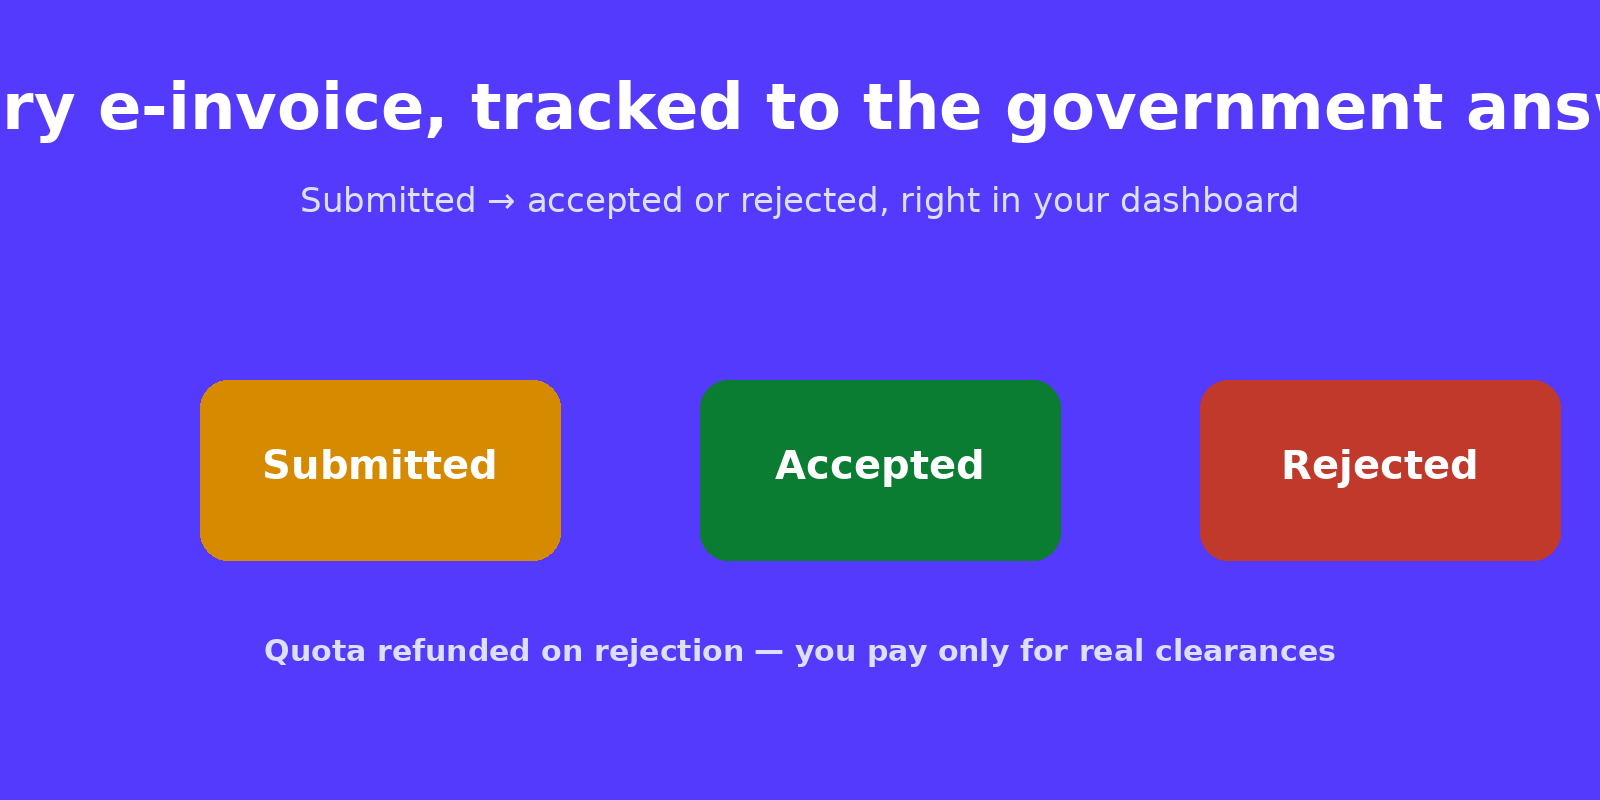
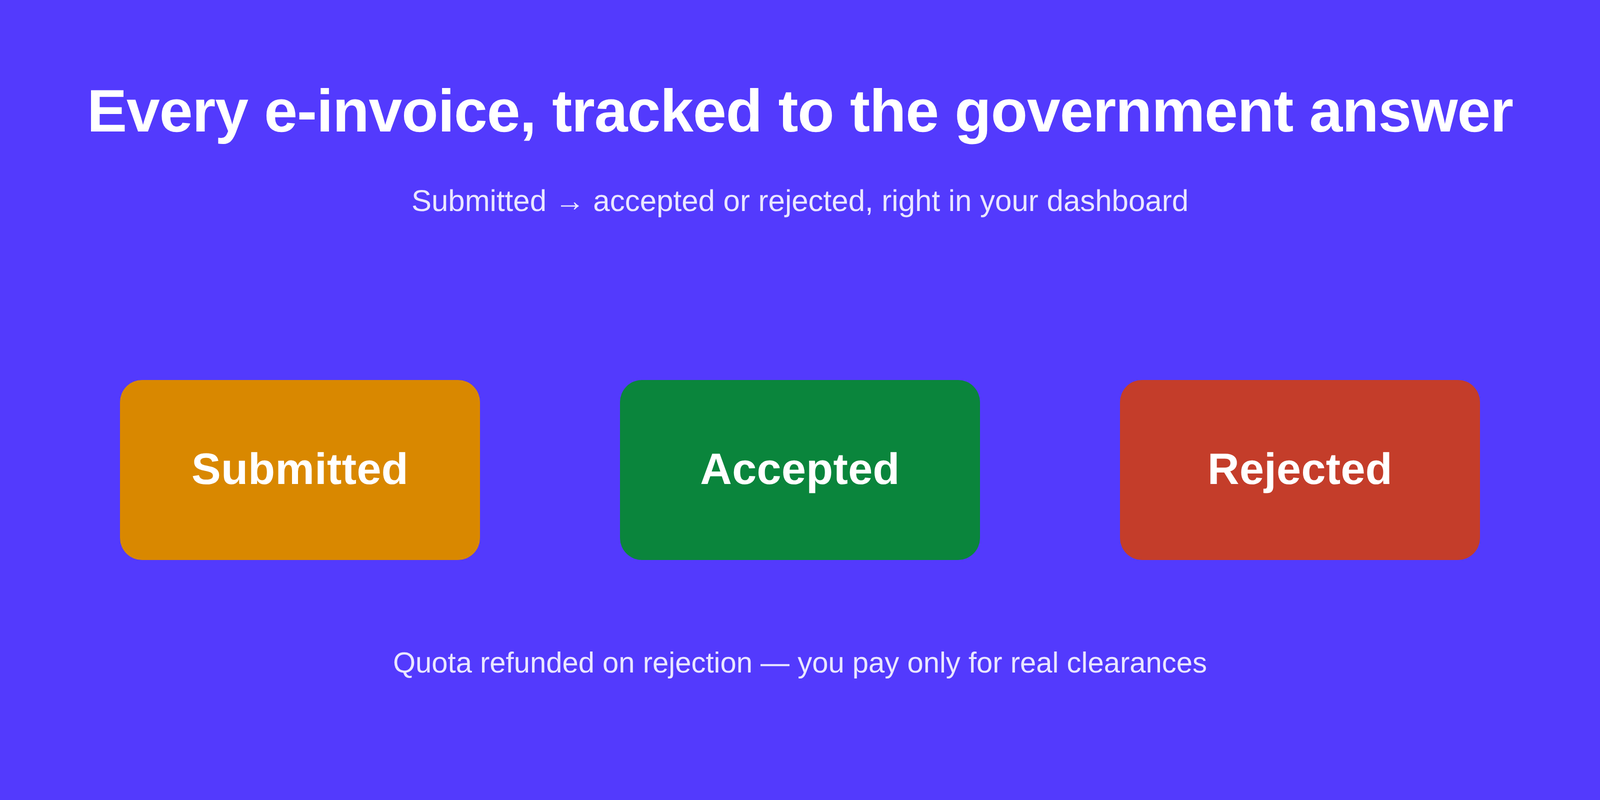
fix(stripe-app): review fixes for 0.1.3
Addresses both Required items from the Stripe 0.1.2 app review (2026-09-04):

1. App experience — OAuth install fails in test mode: the reviewer's
   install link mints a TEST-mode authorization code, but the backend
   exchanged it with the LIVE developer key -> invalid_grant "Passed in
   livemode API key but authorization code only supports returning test
   keys". OAuth codes are mode-bound and Secret Store scopes are too.
   - exchangeCode() now takes the API key; the callback tries the
     deployment's primary key first and, on a mode-mismatch error, retries
     once with the other mode's key (new optional env STRIPE_SECRET_KEY_TEST
     / STRIPE_SECRET_KEY_LIVE) so both test-mode review installs and live
     marketplace installs complete.
   - The refresh token + account id are stored with the SAME-mode key that
     succeeded (Secret Store scopes are mode-bound like OAuth).
   - setSecret/findSecret take an optional apiKey (default unchanged).

2. App listing — key feature 3 image: headline text was clipped at both
   edges in the file itself (48 chars at ~76px in a 1600px canvas, no wrap).
   Rebuilt feature-answers.png at 1600x800 with the headline fully inside
   the frame (>=85px safe margin on every side; layout/colors/copy of the
   original template preserved).

Version bumped to 0.1.3 (stripe-app.json + package.json).

diff --git a/src/index.ts b/src/index.ts
@@ -30,6 +30,16 @@ const APP_URL = process.env.APP_URL || 'https://stripe-app.autoanaf.ro';
 const CORE_URL = process.env.FISCALLINK_CORE_URL || 'https://core.autoanaf.ro';
 const STRIPE_APP_SECRET = process.env.STRIPE_APP_SECRET || '';
 const STRIPE_SECRET_KEY = process.env.STRIPE_SECRET_KEY || '';
+// Optional alternate-mode developer key. OAuth authorization codes are mode-bound:
+// a code minted by a TEST-mode install link can ONLY be exchanged with a test key
+// (and a live-mode code only with a live key) — a mismatch 400s with `invalid_grant
+// … livemode API key but authorization code only supports returning test keys`.
+// Stripe's review team installs apps in TEST mode, so during a review cycle the
+// backend must accept test-mode codes even if the deployment's primary key is live
+// (or vice versa). When one of these is set and the primary key is the other mode,
+// the OAuth callback retries the exchange with the correct-mode key automatically.
+const STRIPE_SECRET_KEY_TEST = process.env.STRIPE_SECRET_KEY_TEST || '';
+const STRIPE_SECRET_KEY_LIVE = process.env.STRIPE_SECRET_KEY_LIVE || '';
 // Signing secret of the dashboard-registered webhook endpoint (Developers → Webhooks →
 // "Listen to events on connected accounts"). Stripe signs app events with it.
 const STRIPE_WEBHOOK_SECRET = process.env.STRIPE_WEBHOOK_SECRET || '';
@@ -60,13 +70,14 @@ const stripe = new Stripe(STRIPE_SECRET_KEY || 'sk_placeholder');
 
 // ── Secret Store helpers (Stripe Apps Secret Store API) ───────────────
 // Docs: https://docs.stripe.com/api/apps/secret_store
-async function setSecret(name: string, payload: string, accountId?: string) {
+async function setSecret(name: string, payload: string, accountId?: string, apiKey?: string) {
+  const key = apiKey || STRIPE_SECRET_KEY;
   const form = new URLSearchParams();
   form.set('name', name);
   form.set('payload', payload);
   form.set('scope[type]', 'account');
   const headers: Record<string, string> = {
-    Authorization: `Bearer ${STRIPE_SECRET_KEY}`,
+    Authorization: `Bearer ${key}`,
   };
   if (accountId) headers['Stripe-Account'] = accountId;
   const res = await fetch('https://api.stripe.com/v1/apps/secrets', {
@@ -78,8 +89,8 @@ async function setSecret(name: string, payload: string, accountId?: string) {
   return res.json();
 }
 
-async function findSecret(name: string, accountId?: string): Promise<string | null> {
-  const headers: Record<string, string> = { Authorization: `Bearer ${STRIPE_SECRET_KEY}` };
+async function findSecret(name: string, accountId?: string, apiKey?: string): Promise<string | null> {
+  const headers: Record<string, string> = { Authorization: `Bearer ${apiKey || STRIPE_SECRET_KEY}` };
   if (accountId) headers['Stripe-Account'] = accountId;
   // payload is expandable — without expand[]=payload the response omits it and
   // every read returns null despite a successful write (field-verified 2026-08-31).
@@ -115,25 +126,66 @@ function verifyAppSignature(req: express.Request): { accountId: string; userId: 
 }
 
 // ── OAuth helpers ─────────────────────────────────────────────────────
-async function exchangeCode(code: string) {
+interface OAuthTokens {
+  access_token: string;
+  refresh_token: string;
+  stripe_user_id: string;
+  livemode: boolean;
+}
+
+function isModeMismatchError(message: string): boolean {
+  // Stripe rejects the exchange when the API key's mode doesn't match the
+  // authorization code's mode, e.g.:
+  //   "Passed in livemode API key but authorization code only supports
+  //    returning test keys"
+  return /invalid_grant/.test(message) && /livemode|test keys|live keys|mode mismatch/i.test(message);
+}
+
+async function exchangeCode(code: string, apiKey: string): Promise<OAuthTokens> {
   const form = new URLSearchParams();
   form.set('code', code);
   form.set('grant_type', 'authorization_code');
   const res = await fetch('https://api.stripe.com/v1/oauth/token', {
     method: 'POST',
     headers: {
-      Authorization: `Bearer ${STRIPE_SECRET_KEY}`,
+      Authorization: `Bearer ${apiKey}`,
       'Content-Type': 'application/x-www-form-urlencoded',
     },
     body: form,
   });
   if (!res.ok) throw new Error(`OAuth token exchange failed: ${res.status} ${await res.text()}`);
-  return res.json() as Promise<{
-    access_token: string;
-    refresh_token: string;
-    stripe_user_id: string;
-    livemode: boolean;
-  }>;
+  return res.json() as Promise<OAuthTokens>;
+}
+
+/**
+ * Exchange an authorization code with the mode-appropriate developer key.
+ * The code's mode is fixed by the install link the user clicked and only an API
+ * key of the SAME mode can exchange it. Try the deployment's primary key first;
+ * if Stripe reports a test/live key mismatch, retry once with the other mode's
+ * key (when configured) so both test-mode review installs and live marketplace
+ * installs complete regardless of which key the deployment primarily runs.
+ */
+async function exchangeCodeWithFallback(code: string): Promise<{ tokens: OAuthTokens; apiKey: string }> {
+  const primaryIsLive = STRIPE_SECRET_KEY.startsWith('sk_live');
+  const primaryIsTest = STRIPE_SECRET_KEY.startsWith('sk_test');
+  const altKey = primaryIsLive ? STRIPE_SECRET_KEY_TEST : primaryIsTest ? STRIPE_SECRET_KEY_LIVE : '';
+  const attempts = [STRIPE_SECRET_KEY, altKey].filter((k) => k.length > 0);
+  let lastError: Error | null = null;
+  for (const apiKey of attempts) {
+    try {
+      const tokens = await exchangeCode(code, apiKey);
+      return { tokens, apiKey };
+    } catch (e) {
+      lastError = e as Error;
+      // Only a mode mismatch is worth retrying — an expired or already-used code
+      // fails identically on both keys, so stop rather than burn the retry.
+      if (!isModeMismatchError(lastError.message)) break;
+      console.log(
+        `[oauth] exchange with the ${apiKey.startsWith('sk_test') ? 'test' : 'live'} key hit a mode mismatch — retrying with the other mode's key`,
+      );
+    }
+  }
+  throw lastError ?? new Error('OAuth token exchange failed: no API key configured');
 }
 
 async function refreshAccessToken(refreshToken: string) {
@@ -248,10 +300,12 @@ app.get('/oauth/callback', async (req, res) => {
     const code = req.query.code as string;
     const state = req.query.state as string;
     if (!code) throw new Error('Missing authorization code');
-    const tokens = await exchangeCode(code);
-    // Persist refresh token + account id in the Secret Store (account scope).
-    await setSecret(SECRET_REFRESH_TOKEN, tokens.refresh_token, tokens.stripe_user_id);
-    await setSecret(SECRET_ACCOUNT_ID, tokens.stripe_user_id, tokens.stripe_user_id);
+    const { tokens, apiKey } = await exchangeCodeWithFallback(code);
+    // Persist refresh token + account id in the Secret Store (account scope) using
+    // the SAME-mode developer key — Secret Store scopes are mode-bound like OAuth.
+    console.log(`[oauth] code exchanged → account ${tokens.stripe_user_id} (livemode=${tokens.livemode})`);
+    await setSecret(SECRET_REFRESH_TOKEN, tokens.refresh_token, tokens.stripe_user_id, apiKey);
+    await setSecret(SECRET_ACCOUNT_ID, tokens.stripe_user_id, tokens.stripe_user_id, apiKey);
     // state may carry a return path — default to the installed landing page.
     const redirect = state && state.startsWith('/') ? state : '/installed?account=' + tokens.stripe_user_id;
     res.redirect(`${APP_URL}${redirect}`);
